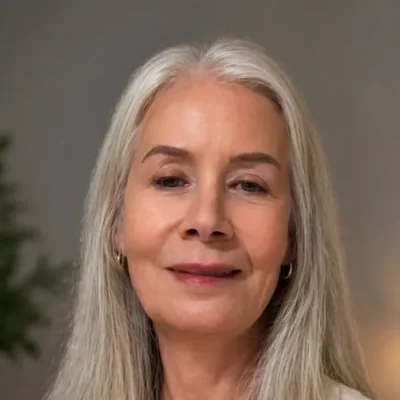
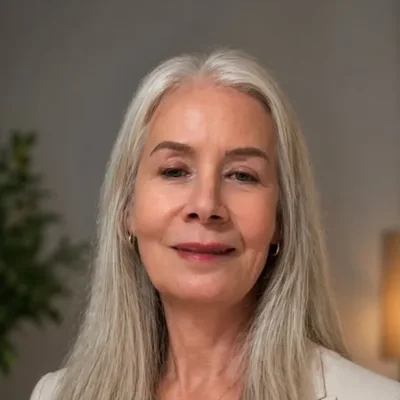
Add the photos of Jessica, Monika and Rachel, and keep every head inside its ring
- Re-crop all 13 portraits so the whole head shows, with room above
- tools/make_author_photo.py: --pad extends the background above photos that stop at the hair

Claude-Session: https://claude.ai/code/session_01FQnwLKyxPytUCgTiwHX3LD

diff --git a/assets/js/books.js b/assets/js/books.js
@@ -545,6 +545,7 @@ window.FAIR_AUTHOR_EXTRAS = {
     bio: 'A non-diet registered dietitian and the founder of L I T Wellness Solutions, offering non-diet nutrition care, wellness integration and health coaching under the motto “IGNITE the Change Within”.'
   },
   'jessica-v-fuentes': {
+    photo: 'assets/img/authors/jessica-v-fuentes.webp',
     inbox: 'jessica.fuentes@empowered-selflove.com',
     website: 'https://empowered-selflove.com/',
     linkedin: 'https://www.linkedin.com/in/jessica-v-fuentes-cpc-03679a20/',
@@ -557,6 +558,7 @@ window.FAIR_AUTHOR_EXTRAS = {
     profile: 'https://www.lifecoachcode.com/members/jennifer-schmeisser/'
   },
   'monika-puiu': {
+    photo: 'assets/img/authors/monika-puiu.webp',
     inbox: 'monika.puiu@wayra-astrae.ro',
     website: 'https://wayra-astrae.ro/',
     linkedin: 'https://www.linkedin.com/in/monika-maria-puiu/',
@@ -577,6 +579,7 @@ window.FAIR_AUTHOR_EXTRAS = {
     profile: 'https://www.lifecoachcode.com/members/yevheniya-shalimova/'
   },
   'rachel-tamilio': {
+    photo: 'assets/img/authors/rachel-tamilio.webp',
     inbox: 'rtamilio.unshackledcoach@gmail.com',
     linkedin: 'https://www.linkedin.com/in/rtamilio/',
     interview: 'https://www.lifecoachcode.com/2023/09/06/find-life-coach-rachel-tamilio/'

diff --git a/tools/make_author_photo.py b/tools/make_author_photo.py
@@ -9,15 +9,29 @@ the author's hologram, in the author's panel, at the booth and in the event line
 
 --cx / --cy: the centre of the face, as a fraction of the width / height (default: centred, a
 little above the middle). --zoom: how much closer than the largest square (1 = the whole short side).
+--pad: room to add above the head when the photo stops right at the hair, as a fraction of the
+height (the background is extended softly).
 Needs Pillow.
 """
 import argparse
 import pathlib
 
-from PIL import Image, ImageOps
+from PIL import Image, ImageFilter, ImageOps
 
 ROOT = pathlib.Path(__file__).resolve().parent.parent
 OUT = ROOT / 'assets' / 'img' / 'authors'
+
+
+def pad_top(im, n):
+    # stretch the top row of the background upwards, then soften it so it reads as background
+    w, h = im.size
+    strip = im.crop((0, 0, w, 6)).resize((w, n), Image.BILINEAR).filter(ImageFilter.GaussianBlur(12))
+    out = Image.new('RGB', (w, h + n))
+    out.paste(strip, (0, 0))
+    out.paste(im, (0, n))
+    blend = out.crop((0, n - 8, w, n + 8)).filter(ImageFilter.GaussianBlur(4))
+    out.paste(blend, (0, n - 8))
+    return out
 
 
 def main():
@@ -28,9 +42,12 @@ def main():
     ap.add_argument('--cy', type=float, default=None)
     ap.add_argument('--zoom', type=float, default=1.0)
     ap.add_argument('--size', type=int, default=400)
+    ap.add_argument('--pad', type=float, default=0.0)
     a = ap.parse_args()
 
     im = ImageOps.exif_transpose(Image.open(a.src)).convert('RGB')
+    if a.pad > 0:
+        im = pad_top(im, round(im.size[1] * a.pad))
     w, h = im.size
     side = min(w, h) / max(1.0, a.zoom)
     cy = a.cy if a.cy is not None else (0.42 if w >= h else (side / 2 + 0.02 * h) / h)
